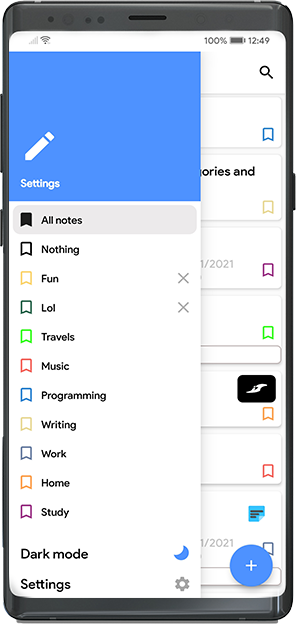
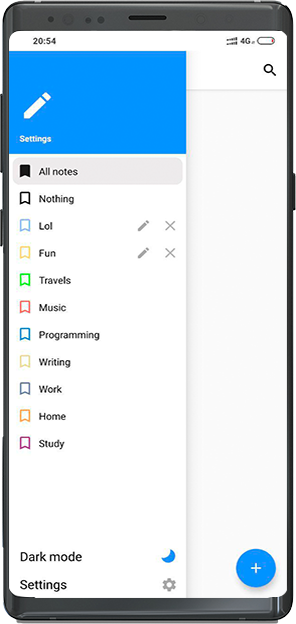
Updated a few images

diff --git a/Smart-Notes/index.html b/Smart-Notes/index.html
@@ -1,1 +1,1 @@
-<!-- Telling the browser how to handle this page --><!DOCTYPE html><!-- The shell of the document, specify the language of the content --><html lang="en">	<head>		<!-- Page encoding -->		<meta charset="UTF-8">		<!-- Adaptive -->		<meta name="viewport" content="width=device-width, user-scalable=no, initial-scale=1.0, maximum-scale=1.0, minimum-scale=1.0">		<meta http-equiv="X-UA-Compatible" content="ie=edge">		<!-- Including the stylesheet -->		<link rel="stylesheet" href="css/style.min.css">		<!-- Bravser page title -->		<title>Smart Notes - In A New Way!</title>	</head>	<body>		<div class="wrapper">			<header class="header">	<div class="container">		<nav class="header__row">			<div class="header__logo"><a href=''><picture><source srcset="img/logo.webp" type="image/webp"><img src="img/logo.png" alt="Smart Notes Logo"></picture></a></div>			<a href="" class="header__mail">yourmail@gmail.com</a>		</nav>	</div></header>			<div class="content">				<section class="main-section">					<div class="container">						<div class="main-section__row">							<div class="main-section__content">								<h2 class="main-section__title _anim-item _anim-items _anim-no-hide">Smart Notes - In A New Way</h2>								<p class="main-section__text _anim-item _anim-items _anim-no-hide">Smart notes is an application thath provides a unique features and experience. Write your own style and express yourself with formatting tools.</p>								<a href="https://play.google.com/store/apps/details?hl=en_US&id=com.itflat.smartnotes" class="main-section__link _anim-item _anim-items _anim-no-hide"><picture><source srcset="img/google_play.webp" type="image/webp"><img src="img/google_play.png" alt="Link Google Play"></picture></a>							</div>							<div class="main-section__img"><picture><source srcset="img/hand.webp" type="image/webp"><img src="img/hand.png" alt="Hand with phone"></picture></div>						</div>					</div>				</section>				<section class="advantages">					<ul class="advantages__body">						<li class="advantages__content">							<h2 class="advantages__title title title-green _anim-item _anim-items _anim-no-hide">Voice input</h2>							<p class="advantages__text text _anim-item _anim-items _anim-no-hide">Enter messages using your voice. Press and hold the add button until the voice input button button appears</p>						</li>						<li class="advantages__img"><picture><source srcset="img/phones/01.webp" type="image/webp"><img src="img/phones/01.png" alt="Voice input"></picture></li>					</ul>					<ul class="advantages__body">						<li class="advantages__img"><picture><source srcset="img/phones/02.webp" type="image/webp"><img src="img/phones/02.png" alt="Attach table"></picture></li>						<li class="advantages__content">							<h2 class="advantages__title title title-green _anim-item _anim-items _anim-no-hide">Tables</h2>							<p class="advantages__text text _anim-item _anim-items _anim-no-hide">You can attached table in your note</p>						</li>					</ul>					<ul class="advantages__body">						<li class="advantages__content">							<h2 class="advantages__title title title-green _anim-item _anim-items _anim-no-hide">Categories</h2>							<p class="advantages__text text _anim-item _anim-items _anim-no-hide">Create own categories to sort your notes</p>						</li>						<li class="advantages__img"><picture><source srcset="img/phones/03.webp" type="image/webp"><img src="img/phones/03.png" alt="Category"></picture></li>					</ul>				</section>				<section class="slider">					<div class="container">						<h2 class="slider__title _anim-item _anim-items _anim-no-hide">And much more</h2>						<p class="slider__text text _anim-item _anim-items _anim-no-hide">Create notes with your own categories, personalized links, attach photos, apps and tables. Scan QR codes without leaving the application</p>						<ul class="slider__row">							<li class="slider__item"><picture><source srcset="img/slider-images/01.webp" type="image/webp"><img src="img/slider-images/01.png" alt=""></picture></li>							<li class="slider__item"><picture><source srcset="img/slider-images/02.webp" type="image/webp"><img src="img/slider-images/02.png" alt=""></picture></li>							<li class="slider__item"><picture><source srcset="img/slider-images/03.webp" type="image/webp"><img src="img/slider-images/03.png" alt=""></picture></li>							<li class="slider__item"><picture><source srcset="img/slider-images/04.webp" type="image/webp"><img src="img/slider-images/04.jpg" alt=""></picture></li>							<li class="slider__item"><picture><source srcset="img/slider-images/05.webp" type="image/webp"><img src="img/slider-images/05.jpg" alt=""></picture></li>							<li class="slider__item"><picture><source srcset="img/slider-images/06.webp" type="image/webp"><img src="img/slider-images/06.jpg" alt=""></picture></li>						</ul>					</div>				</section>				<section class="downloads">					<h2 class="downloads__title title title-gray _anim-item _anim-items _anim-no-hide">Downloads Smart Notes now</h2>					<a href="https://play.google.com/store/apps/details?hl=en_US&id=com.itflat.smartnotes" class="downloads__link _anim-item _anim-items _anim-no-hide"><picture><source srcset="img/google_play.webp" type="image/webp"><img src="img/google_play.png" alt="Google Play"></picture></a>				</section>			</div>			<footer class="footer">	<div class="container">		<p class="footer__text">I'm on social networks</p>		<ul class="footer__social-icons">			<li class="footer__social-icon"><a href=""><picture><source srcset="img/footer_social-icons/01.svg" type="image/webp"><img src="img/footer_social-icons/01.svg" alt=""></picture></a></li>			<li class="footer__social-icon"><a href=""><picture><source srcset="img/footer_social-icons/02.svg" type="image/webp"><img src="img/footer_social-icons/02.svg" alt=""></picture></a></li>			<li class="footer__social-icon"><a href=""><picture><source srcset="img/footer_social-icons/03.svg" type="image/webp"><img src="img/footer_social-icons/03.svg" alt=""></picture></a></li>			<li class="footer__social-icon"><a href=""><picture><source srcset="img/footer_social-icons/04.svg" type="image/webp"><img src="img/footer_social-icons/04.svg" alt=""></picture></a></li>		</ul>		<ul class="footer__items">			<li class="footer__link"><a href="index.html">Contact</a></li>			<li class="footer__link"><a href="index.html">Blog</a></li>			<li class="footer__link"><a href="index.html">Support</a></li>			<li class="footer__link"><a href="index.html">Developers</a></li>			<li class="footer__link"><a href="index.html">Privacy</a></li>		</ul>	</div></footer>		</div>		<!-- Connect JQuery -->		<script src="https://code.jquery.com/jquery-3.5.1.min.js"></script>		<!-- Connect file scripts  -->		<script src="js/main.min.js"></script>	</body></html>
+<!-- Telling the browser how to handle this page --><!DOCTYPE html><!-- The shell of the document, specify the language of the content --><html lang="en">	<head>		<!-- Page encoding -->		<meta charset="UTF-8">		<!-- Adaptive -->		<meta name="viewport" content="width=device-width, user-scalable=no, initial-scale=1.0, maximum-scale=1.0, minimum-scale=1.0">		<meta http-equiv="X-UA-Compatible" content="ie=edge">		<!-- Including the stylesheet -->		<link rel="stylesheet" href="css/style.min.css">		<!-- Bravser page title -->		<title>Smart Notes - In A New Way!</title>	</head>	<body>		<div class="wrapper">			<header class="header">	<div class="container">		<nav class="header__row">			<div class="header__logo"><a href=''><picture><source srcset="img/logo.webp" type="image/webp"><img src="img/logo.png" alt="Smart Notes Logo"></picture></a></div>			<a href="" class="header__mail">yourmail@gmail.com</a>		</nav>	</div></header>			<div class="content">				<section class="main-section">					<div class="container">						<div class="main-section__row">							<div class="main-section__content">								<h2 class="main-section__title _anim-item _anim-items _anim-no-hide">Smart Notes - In A New Way</h2>								<p class="main-section__text _anim-item _anim-items _anim-no-hide">Smart notes is an application thath provides a unique features and experience. Write your own style and express yourself with formatting tools.</p>								<a href="https://play.google.com/store/apps/details?hl=en_US&id=com.itflat.smartnotes" class="main-section__link _anim-item _anim-items _anim-no-hide"><picture><source srcset="img/google_play.webp" type="image/webp"><img src="img/google_play.png" alt="Link Google Play"></picture></a>							</div>							<div class="main-section__img"><picture><source srcset="img/hand.webp" type="image/webp"><img src="img/hand.png" alt="Hand with phone"></picture></div>						</div>					</div>				</section>				<section class="advantages">					<ul class="advantages__body">						<li class="advantages__content">							<h2 class="advantages__title title title-green _anim-item _anim-items _anim-no-hide">Voice input</h2>							<p class="advantages__text text _anim-item _anim-items _anim-no-hide">Enter messages using your voice. Press and hold the add button until the voice input button button appears</p>						</li>						<li class="advantages__img"><picture><source srcset="img/phones/01.webp" type="image/webp"><img src="img/phones/01.png" alt="Voice input"></picture></li>					</ul>					<ul class="advantages__body">						<li class="advantages__img"><picture><source srcset="img/phones/02.webp" type="image/webp"><img src="img/phones/02.png" alt="Attach table"></picture></li>						<li class="advantages__content">							<h2 class="advantages__title title title-green _anim-item _anim-items _anim-no-hide">Tables</h2>							<p class="advantages__text text _anim-item _anim-items _anim-no-hide">You can attached table in your note</p>						</li>					</ul>					<ul class="advantages__body">						<li class="advantages__content">							<h2 class="advantages__title title title-green _anim-item _anim-items _anim-no-hide">Categories</h2>							<p class="advantages__text text _anim-item _anim-items _anim-no-hide">Create and edit own categories to sort your notes</p>						</li>						<li class="advantages__img"><picture><source srcset="img/phones/03.webp" type="image/webp"><img src="img/phones/03.png" alt="Category"></picture></li>					</ul>				</section>				<section class="slider">					<div class="container">						<h2 class="slider__title _anim-item _anim-items _anim-no-hide">And much more...</h2>						<p class="slider__text text _anim-item _anim-items _anim-no-hide">Create notes with your own categories, personalized links, attach photos, apps and tables, pin your notes to top. Scan QR codes without leaving the application</p>						<ul class="slider__row">							<li class="slider__item"><picture><source srcset="img/slider-images/01.webp" type="image/webp"><img src="img/slider-images/01.png" alt=""></picture></li>							<li class="slider__item"><picture><source srcset="img/slider-images/02.webp" type="image/webp"><img src="img/slider-images/02.png" alt=""></picture></li>							<li class="slider__item"><picture><source srcset="img/slider-images/03.webp" type="image/webp"><img src="img/slider-images/03.png" alt=""></picture></li>							<li class="slider__item"><picture><source srcset="img/slider-images/04.webp" type="image/webp"><img src="img/slider-images/04.jpg" alt=""></picture></li>							<li class="slider__item"><picture><source srcset="img/slider-images/05.webp" type="image/webp"><img src="img/slider-images/05.jpg" alt=""></picture></li>							<li class="slider__item"><picture><source srcset="img/slider-images/06.webp" type="image/webp"><img src="img/slider-images/06.jpg" alt=""></picture></li>						</ul>					</div>				</section>				<section class="downloads">					<h2 class="downloads__title title title-gray _anim-item _anim-items _anim-no-hide">Downloads Smart Notes now</h2>					<a href="https://play.google.com/store/apps/details?hl=en_US&id=com.itflat.smartnotes" class="downloads__link _anim-item _anim-items _anim-no-hide"><picture><source srcset="img/google_play.webp" type="image/webp"><img src="img/google_play.png" alt="Google Play"></picture></a>				</section>			</div>			<footer class="footer">	<div class="container">		<p class="footer__text">I'm on social networks</p>		<ul class="footer__social-icons">			<li class="footer__social-icon"><a href=""><picture><source srcset="img/footer_social-icons/01.svg" type="image/webp"><img src="img/footer_social-icons/01.svg" alt=""></picture></a></li>			<li class="footer__social-icon"><a href=""><picture><source srcset="img/footer_social-icons/02.svg" type="image/webp"><img src="img/footer_social-icons/02.svg" alt=""></picture></a></li>			<li class="footer__social-icon"><a href=""><picture><source srcset="img/footer_social-icons/03.svg" type="image/webp"><img src="img/footer_social-icons/03.svg" alt=""></picture></a></li>			<li class="footer__social-icon"><a href=""><picture><source srcset="img/footer_social-icons/04.svg" type="image/webp"><img src="img/footer_social-icons/04.svg" alt=""></picture></a></li>		</ul>		<ul class="footer__items">			<li class="footer__link"><a href="index.html">Contact</a></li>			<li class="footer__link"><a href="index.html">Blog</a></li>			<li class="footer__link"><a href="index.html">Support</a></li>			<li class="footer__link"><a href="index.html">Developers</a></li>			<li class="footer__link"><a href="index.html">Privacy</a></li>		</ul>	</div></footer>		</div>		<!-- Connect JQuery -->		<script src="https://code.jquery.com/jquery-3.5.1.min.js"></script>		<!-- Connect file scripts  -->		<script src="js/main.min.js"></script>	</body></html>

diff --git a/#src/index.html b/#src/index.html
@@ -47,15 +47,15 @@
 					<ul class="advantages__body">
 						<li class="advantages__content">
 							<h2 class="advantages__title title title-green _anim-item _anim-items _anim-no-hide">Categories</h2>
-							<p class="advantages__text text _anim-item _anim-items _anim-no-hide">Create own categories to sort your notes</p>
+							<p class="advantages__text text _anim-item _anim-items _anim-no-hide">Create and edit own categories to sort your notes</p>
 						</li>
 						<li class="advantages__img"><img src="img/phones/03.png" alt="Category"></li>
 					</ul>
 				</section>
 				<section class="slider">
 					<div class="container">
-						<h2 class="slider__title _anim-item _anim-items _anim-no-hide">And much more</h2>
-						<p class="slider__text text _anim-item _anim-items _anim-no-hide">Create notes with your own categories, personalized links, attach photos, apps and tables. Scan QR codes without leaving the application</p>
+						<h2 class="slider__title _anim-item _anim-items _anim-no-hide">And much more...</h2>
+						<p class="slider__text text _anim-item _anim-items _anim-no-hide">Create notes with your own categories, personalized links, attach photos, apps and tables, pin your notes to top. Scan QR codes without leaving the application</p>
 						<ul class="slider__row">
 							<li class="slider__item"><img src="img/slider-images/01.png" alt=""></li>
 							<li class="slider__item"><img src="img/slider-images/02.png" alt=""></li>
